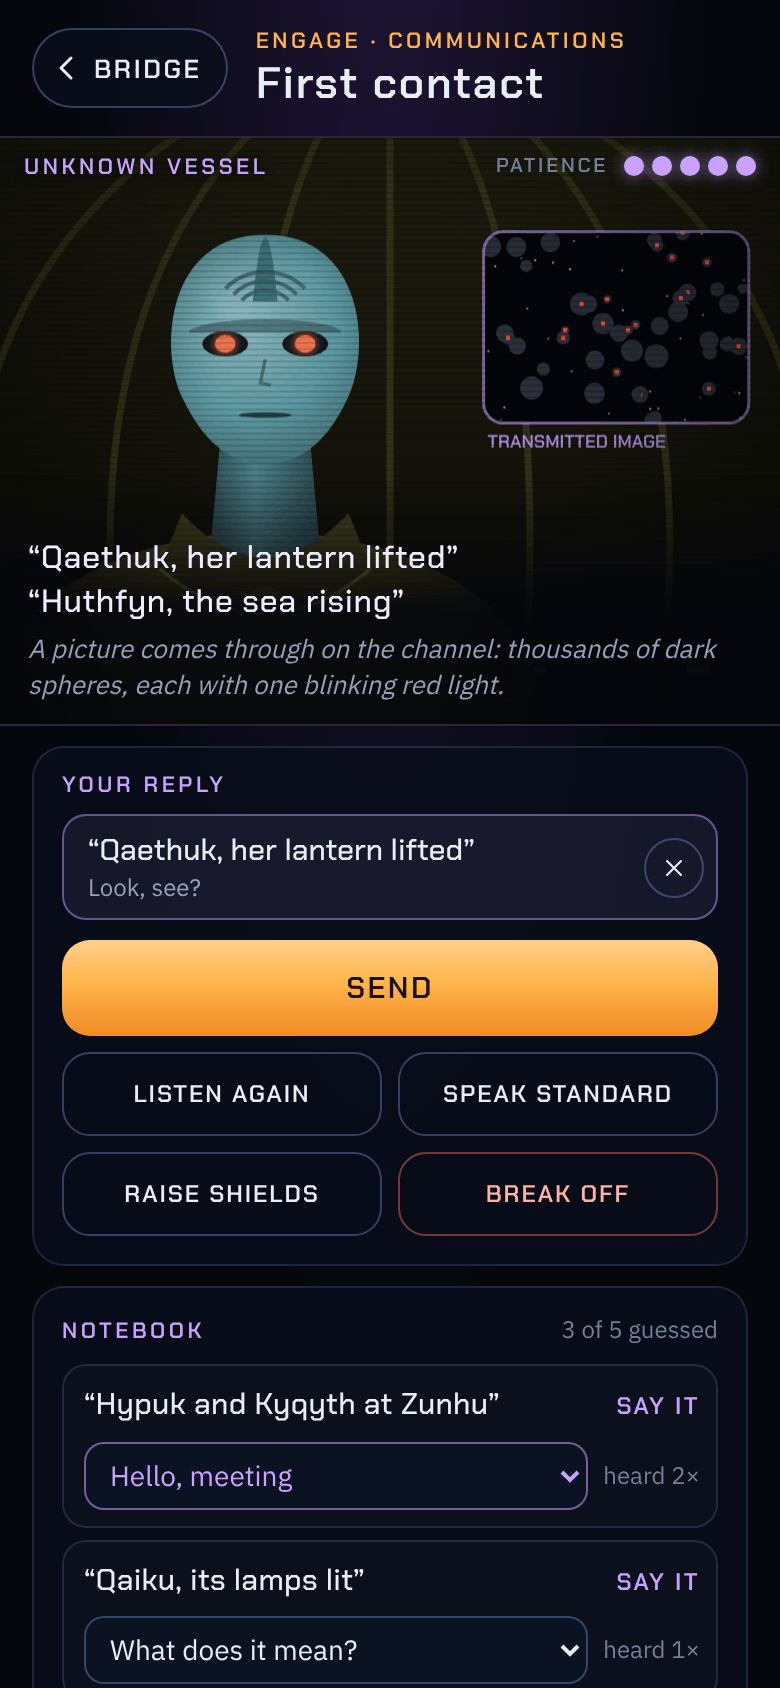
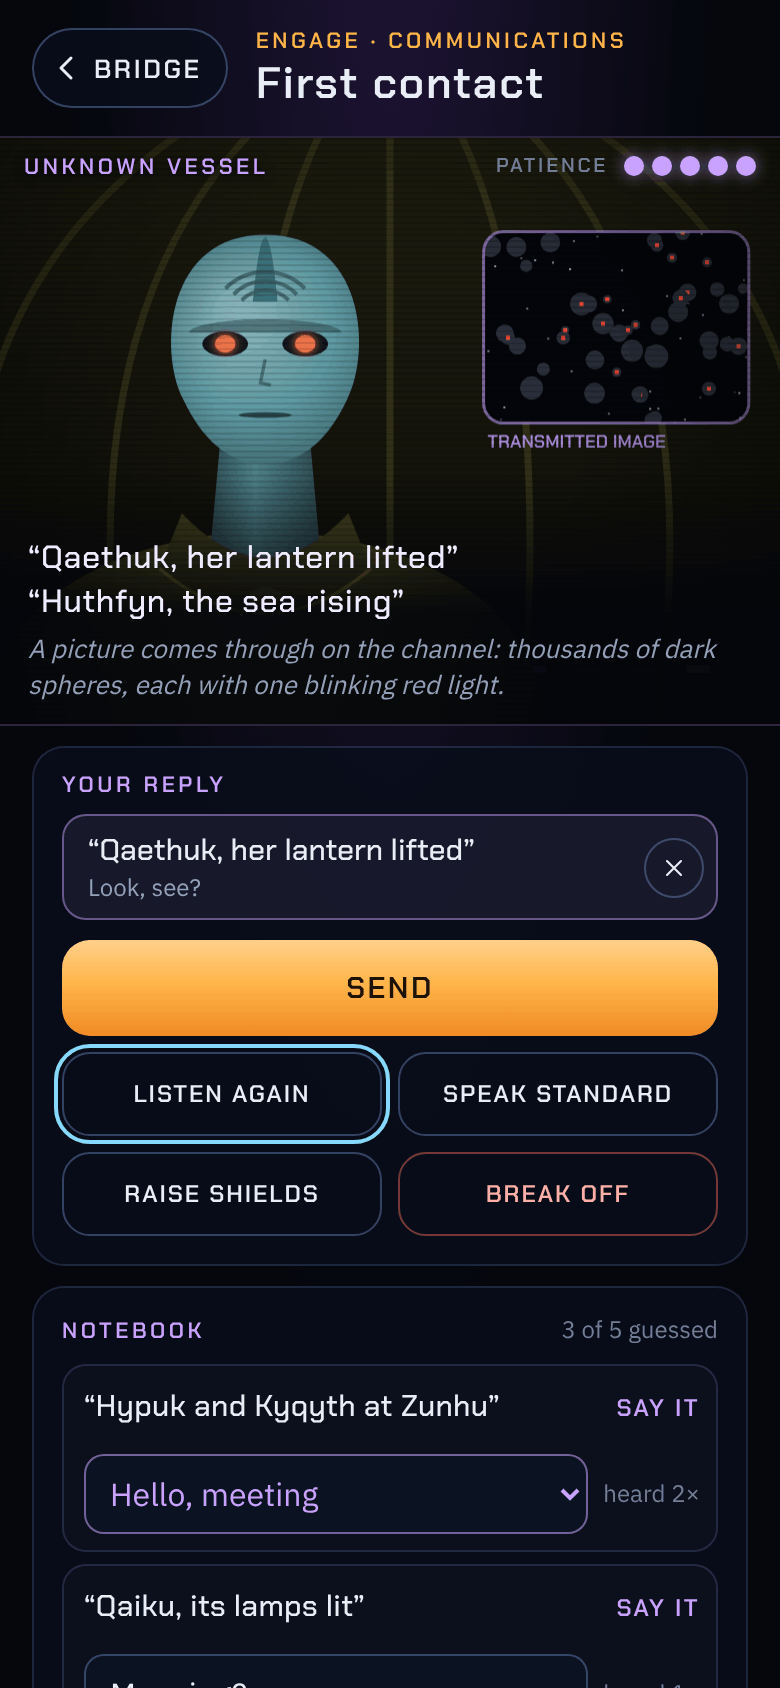
Small things under a thumb: 44 px tap areas, 16 px selects, no stray line
Measured on a 390 px phone: first contact's notebook phrase, the button
a reply is built with, was 24 px tall; the lab's let-go button on a jar
30 px; the text links in the survey, the lab, long missions and the warp
scale 24 px; the bridge's Warp scale link 26 px, right under the warp
slider's thumb. The notebook's selects were in 14 px type, which makes
Safari on an iPhone zoom the page in on focus and leave it zoomed (its
documented behaviour, not seen here). And tonight's row of controls took
the bridge star list's ".row" rule with it: a hairline across the screen
under Point your phone.

Each gets a 44 px tap area and keeps its look. The notebook phrase is 44
px tall in place of the card's own padding (a row is 12 px taller, half
of that the select). The jar's disc stays 30 px and takes taps from 7 px
around it. The text links are padded, with margins that take the padding
back so nothing moves; Warp scale grows down and left, never up into the
slider. Long missions' view buttons and tonight's city chips are 40 px.
The selects are 16 px. Tonight's row keeps its spacing and loses the
line and the hover. Pictures redrawn: tonight's sky, first contact, long
missions.

Claude-Session: https://claude.ai/code/session_01PQbLNVDaib7dGBXFANm7XP

diff --git a/css/xeno.css b/css/xeno.css
@@ -15,11 +15,11 @@
 .bench-actions .secondary[aria-pressed="true"] { border-color: #6fe3a4; color: #6fe3a4; }
 .bench-actions .secondary:disabled { opacity: 1; color: var(--muted); border-style: dashed; font-size: 12px; }
 .bench-foot { display: flex; flex-wrap: wrap; justify-content: space-between; align-items: center; gap: 0 12px; margin-top: 4px; }
-.bench-foot .text-button { color: #6fe3a4; font-size: 13px; }
+.bench-foot .text-button { color: #6fe3a4; font-size: 13px; min-height: 44px; padding: 12px 0; margin: -4px 0; }
 .bench-foot .share-link { flex: 1 1 100%; min-width: 0; height: 40px; padding: 0 12px; border-radius: 12px; border: 1px solid var(--line-strong); background: rgba(255, 255, 255, 0.04); font-size: 14px; color: var(--text); }
 .kept-note { margin: 0; margin-left: auto; text-align: right; font-size: 13px; color: var(--muted); }
 .link-note { margin: 4px 0 0; font-size: 13px; color: var(--muted); }
-.kept-note a { color: #6fe3a4; text-underline-offset: 3px; display: inline-block; padding: 6px 0; }
+.kept-note a { color: #6fe3a4; text-underline-offset: 3px; display: inline-block; line-height: 20px; padding: 12px 0; margin: -6px 0; }
 
 .specimen { padding: 18px 18px 10px; border-radius: 20px; border: 1px solid var(--line); background: var(--panel); }
 .specimen h2 { margin: 4px 0 0; font: 600 26px/1.1 var(--display); letter-spacing: 0.02em; }
@@ -31,7 +31,8 @@
 .notes li { padding: 10px 0; border-top: 1px solid var(--line); }
 .notes h3 { margin: 0 0 3px; font: 600 11px/1.2 var(--display); letter-spacing: 0.16em; text-transform: uppercase; color: var(--amber); }
 .notes p { margin: 0; color: #cdd5e3; }
-.specimen .to-file { display: inline-block; margin: 6px 18px 4px 0; font: 600 12px/1 var(--display); letter-spacing: 0.12em; text-transform: uppercase; color: var(--amber); text-decoration: none; padding: 6px 0; }
+/* 44 px tall under a thumb; the margins take back what the padding adds, so the link sits where it did. */
+.specimen .to-file { display: inline-block; margin: -4px 18px -6px 0; font: 600 12px/1 var(--display); letter-spacing: 0.12em; text-transform: uppercase; color: var(--amber); text-decoration: none; padding: 16px 0; }
 .specimen .to-file:hover { text-decoration: underline; text-underline-offset: 3px; }
 .specimen .for-real { margin: 10px 0 2px; font-size: 14px; color: var(--muted); }
 .specimen .for-real a { color: var(--cyan); text-underline-offset: 3px; }
@@ -66,6 +67,8 @@
 .jar-cls { font-size: 12px; color: var(--muted); padding: 0 4px; }
 .jar-drop { position: absolute; top: 10px; right: 10px; width: 30px; height: 30px; border-radius: 50%; border: 1px solid var(--line-strong); background: rgba(5, 7, 13, 0.75); display: grid; place-items: center; padding: 0; }
 .jar-drop svg { width: 14px; height: 14px; }
+/* The disc stays 30 px; a tap lands on it from 7 px further out all round. */
+.jar-drop::after { content: ''; position: absolute; left: 50%; top: 50%; width: 44px; height: 44px; transform: translate(-50%, -50%); border-radius: 50%; }
 
 .xeno .jd-foot { padding: 28px 0 calc(18px + var(--safe-b)); }
 

diff --git a/css/contact.css b/css/contact.css
@@ -71,16 +71,19 @@ body.contact { min-height: 100%; background: radial-gradient(ellipse at 50% -10%
 
 .book-n { font-size: 12px; color: var(--dim); }
 .book-list { list-style: none; margin: 8px 0 0; padding: 0; display: grid; gap: 6px; }
-.book-list li { display: grid; grid-template-columns: 1fr auto; gap: 6px 8px; align-items: center; padding: 8px 8px 8px 10px; border-radius: 12px; border: 1px solid var(--line); background: rgba(255, 255, 255, 0.02); }
+/* The phrase is the button a reply is built with: its row is 44 px tall for a thumb, and takes the place of the card's
+   own space above and below it, so a row is hardly taller than it was. */
+.book-list li { display: grid; grid-template-columns: 1fr auto; gap: 0 8px; align-items: center; padding: 0 8px 8px 10px; border-radius: 12px; border: 1px solid var(--line); background: rgba(255, 255, 255, 0.02); }
 .book-list li.new { animation: glow 1.6s ease-out; }
-.ph-add { grid-column: 1 / -1; display: flex; align-items: baseline; gap: 8px; width: 100%; padding: 2px 0; border: 0; background: none; text-align: left; }
+.ph-add { grid-column: 1 / -1; display: flex; align-items: baseline; gap: 8px; width: 100%; min-height: 44px; padding: 11px 0; border: 0; background: none; text-align: left; }
 .ph-add .t { flex: 1; font: 500 15px/1.3 var(--display); letter-spacing: 0.01em; }
 .ph-add .plus { flex: none; font: 600 12px/1 var(--display); letter-spacing: 0.1em; text-transform: uppercase; color: var(--alien); }
 .ph-add:not([aria-disabled="true"]):hover .t { color: #fff; }
 .ph-add[aria-disabled="true"] { cursor: default; }
 .ph-add[aria-disabled="true"] .plus { color: var(--dim); }
 .ph-n { font-size: 12px; color: var(--dim); white-space: nowrap; }
-.book-list select { width: 100%; min-width: 0; height: 34px; padding: 0 8px; border-radius: 10px; border: 1px solid var(--line-strong); background: var(--panel-solid); color: var(--text); font: 14px var(--body); }
+/* 16 px: Safari on an iPhone zooms the whole page in on a focused control whose text is smaller, and stays zoomed. */
+.book-list select { width: 100%; min-width: 0; height: 40px; padding: 0 8px; border-radius: 10px; border: 1px solid var(--line-strong); background: var(--panel-solid); color: var(--text); font: 16px var(--body); }
 .book-list select.tagged { border-color: rgba(201, 162, 255, 0.55); color: var(--alien); }
 @keyframes glow { from { border-color: var(--alien); background: rgba(201, 162, 255, 0.14); } }
 

diff --git a/css/missions.css b/css/missions.css
@@ -18,7 +18,7 @@ body.missions { min-height: 100%; background: radial-gradient(ellipse at 50% -10
 .map-wrap { position: relative; margin: 4px -16px 0; border-block: 1px solid var(--line); background: radial-gradient(circle at 50% 50%, #0a1426 0%, #04060b 70%); }
 #map { display: block; width: 100%; aspect-ratio: 1 / 1.08; max-height: 78vh; touch-action: manipulation; cursor: pointer; }
 .views { position: absolute; left: 10px; top: 10px; display: flex; padding: 3px; gap: 3px; border-radius: 12px; border: 1px solid var(--line); background: rgba(5, 7, 13, 0.75); backdrop-filter: blur(8px); -webkit-backdrop-filter: blur(8px); }
-.views button { height: 32px; padding: 0 10px; border: 0; border-radius: 9px; background: transparent; color: var(--muted); font: 600 11px/1 var(--display); letter-spacing: 0.1em; text-transform: uppercase; }
+.views button { height: 40px; padding: 0 10px; border: 0; border-radius: 9px; background: transparent; color: var(--muted); font: 600 11px/1 var(--display); letter-spacing: 0.1em; text-transform: uppercase; }
 .views button[aria-pressed="true"] { background: rgba(134, 216, 255, 0.14); color: var(--cyan); box-shadow: 0 0 0 1px rgba(134, 216, 255, 0.35) inset; }
 .scale { margin: 6px 0 0; font-size: 12px; color: var(--dim); }
 
@@ -61,7 +61,8 @@ body.missions { min-height: 100%; background: radial-gradient(ellipse at 50% -10
 .log li { display: grid; grid-template-columns: 7.4em 1fr; gap: 10px; padding: 8px 0; border-top: 1px solid var(--line); font-size: 14px; color: #cdd5e3; }
 .log time { font: 500 12px/1.6 var(--display); letter-spacing: 0.04em; color: var(--muted); }
 .file .warp { color: var(--cyan); font-size: 14px; }
-.fly { display: inline-block; margin: 2px 0 6px; font: 600 12px/1 var(--display); letter-spacing: 0.12em; text-transform: uppercase; color: var(--amber); text-decoration: none; padding: 6px 0; }
+/* 44 px tall under a thumb; the margins take back what the padding adds, so the link sits where it did. */
+.fly { display: inline-block; margin: -8px 0 -4px; font: 600 12px/1 var(--display); letter-spacing: 0.12em; text-transform: uppercase; color: var(--amber); text-decoration: none; padding: 16px 0; }
 .fly:hover { text-decoration: underline; text-underline-offset: 3px; }
 .file .record { color: var(--muted); font-size: 14px; font-style: italic; }
 

diff --git a/css/tonight.css b/css/tonight.css
@@ -30,7 +30,8 @@
 .controls { position: absolute; left: 0; right: 0; bottom: 0; padding: 30px 16px calc(14px + var(--safe-b)); background: linear-gradient(to top, rgba(5, 7, 13, 0.85) 40%, rgba(5, 7, 13, 0)); pointer-events: none; }
 .controls > * { pointer-events: auto; }
 .hint { margin: 0 auto 10px; max-width: 520px; text-align: center; font-size: 13px; color: var(--muted); text-shadow: 0 1px 6px rgba(0, 0, 0, 0.9); }
-.controls .row { display: flex; gap: 12px; align-items: center; max-width: 520px; margin: 0 auto; }
+/* (.row is also a line of the bridge's star list in css/app.css: its rule under each line, and its hover, are not for this row.) */
+.controls .row { display: flex; gap: 12px; align-items: center; max-width: 520px; margin: 0 auto; padding: 10px 4px 11px; border: 0; background: none; }
 .controls .primary, .controls .secondary { flex: none; height: 46px; }
 .time { flex: 1; min-width: 0; display: grid; gap: 4px; }
 .time-label { font: 600 12px/1 var(--display); letter-spacing: 0.12em; text-transform: uppercase; color: var(--amber); }
@@ -90,7 +91,7 @@ body.carded .controls { visibility: hidden; }
 .sky-opt span { font-size: 13px; color: var(--muted); }
 .sky-opt[aria-checked="true"] { border-color: var(--amber); background: rgba(255, 181, 74, 0.08); }
 .cities { display: flex; flex-wrap: wrap; gap: 6px; }
-.city { height: 36px; padding: 0 12px; border-radius: 999px; border: 1px solid var(--line); background: rgba(255, 255, 255, 0.03); font-size: 14px; }
+.city { height: 40px; padding: 0 12px; border-radius: 999px; border: 1px solid var(--line); background: rgba(255, 255, 255, 0.03); font-size: 14px; }
 .city[aria-pressed="true"] { border-color: var(--amber); color: var(--amber); }
 
 /* Night vision: everything in red, so your eyes stay used to the dark */

diff --git a/css/survey.css b/css/survey.css
@@ -51,12 +51,13 @@ body.survey { min-height: 100%; background: radial-gradient(ellipse at 50% -10%,
 .ly { font: 500 13px/1 var(--display); color: var(--cyan); white-space: nowrap; font-variant-numeric: tabular-nums; }
 .worlds p { margin: 4px 0 2px; font-size: 14px; color: var(--muted); }
 .misfit { display: inline-block; margin: 6px 0 2px; padding: 4px 8px; border: 1px solid rgba(255, 181, 74, 0.45); border-radius: 999px; font: 600 10px/1.2 var(--display); letter-spacing: 0.12em; text-transform: uppercase; color: var(--amber); }
-.fly { display: inline-block; margin-top: 4px; font: 600 12px/1 var(--display); letter-spacing: 0.12em; text-transform: uppercase; color: var(--amber); text-decoration: none; padding: 6px 0; }
+/* 44 px tall under a thumb; the margins take back what the padding adds, so the link sits where it did. */
+.fly { display: inline-block; margin: -6px 0 -10px; font: 600 12px/1 var(--display); letter-spacing: 0.12em; text-transform: uppercase; color: var(--amber); text-decoration: none; padding: 16px 0; }
 .fly:hover { text-decoration: underline; text-underline-offset: 3px; }
 /* Set course, and Grow a creature for it: side by side where there's room, one under the other on a phone. */
 .w-links { display: flex; flex-wrap: wrap; gap: 0 20px; }
 /* A long planet's name takes its link to a second line: give the two lines room. */
-.w-links .fly { line-height: 1.4; }
+.w-links .fly { line-height: 1.4; padding: 14px 0; margin: -4px 0 -8px; }
 
 /* Thumbnails to flip through */
 .strip-wrap { margin: 14px -16px 0; }

diff --git a/css/app.css b/css/app.css
@@ -94,7 +94,8 @@ a.round { color: var(--text); text-decoration: none; }
 .warp-label { font: 600 14px/1 var(--display); letter-spacing: 0.08em; text-transform: uppercase; color: var(--amber); white-space: nowrap; }
 .warp-label output { display: inline-block; min-width: 2.2em; font-variant-numeric: tabular-nums; }
 .warp-speed { grid-column: 1 / -1; display: flex; flex-wrap: wrap; justify-content: space-between; gap: 0 8px; margin: 2px 0 0; font-size: 12px; color: var(--dim); font-variant-numeric: tabular-nums; }
-#open-scale { color: #c9a2ff; text-decoration: none; white-space: nowrap; padding: 4px 0; margin: -4px 0; }
+/* 44 px tall under a thumb. The room is added below the words and to their left, never above: that is the slider's. */
+#open-scale { color: #c9a2ff; text-decoration: none; white-space: nowrap; padding: 4px 0 22px 14px; margin: -4px 0 -22px -14px; }
 #open-scale:hover { text-decoration: underline; text-underline-offset: 3px; }
 input[type=range] { -webkit-appearance: none; appearance: none; width: 100%; height: 32px; background: transparent; margin: 0; }
 input[type=range]::-webkit-slider-runnable-track { height: 6px; border-radius: 3px; background: linear-gradient(90deg, var(--amber-deep), var(--amber) var(--fill, 85%), rgba(255, 255, 255, 0.12) var(--fill, 85%)); }

diff --git a/sw.js b/sw.js
@@ -8,7 +8,7 @@
 // fingerprint of every file in SHELL: change any of them and test/e2e.mjs fails until FILES is changed to match (it
 // says what to), which changes this file, so every copy is made whole again at once.
 const CACHE = 'engage-v14'; // bump the number when the file list changes
-const FILES = 'b442d126'; // test/e2e.mjs checks this
+const FILES = 'f97d8e14'; // test/e2e.mjs checks this
 const SHELL = [
   './', 'index.html', 'survey.html', 'maru.html', 'missions.html', 'tonight.html', 'xeno.html', 'contact.html', 'warp.html', 'icon.svg', 'manifest.webmanifest',
   'css/app.css', 'css/survey.css', 'css/maru.css', 'css/missions.css', 'css/tonight.css', 'css/xeno.css', 'css/contact.css', 'css/warp.css', 'js/app.js', 'js/maru.js', 'js/maru-sim.js', 'js/missions.js', 'js/tonight.js', 'js/xeno.js', 'js/xeno-gen.js', 'js/xeno-art.js', 'js/species.js', 'js/contact.js', 'js/contact-sim.js', 'js/contact-art.js', 'js/warp.js', 'js/warp-scale.js', 'js/wake.js', 'js/astro.js', 'js/charts.js', 'js/ships.js', 'js/ephemeris.js', 'js/classes.js', 'js/planet-art.js', 'js/survey.js', 'js/audio.js', 'js/catalog.js', 'js/destinations.js', 'js/log.js', 'js/search.js', 'js/share.js', 'js/store.js', 'js/physics.js', 'js/sky.js',

diff --git a/css/warp.css b/css/warp.css
@@ -25,7 +25,8 @@
 .place .about { margin: 12px 0 8px; color: #cdd5e3; }
 .place .trek { margin: 0 0 10px; padding: 8px 10px; border-left: 3px solid var(--amber); background: rgba(255, 181, 74, 0.06); color: #cdd5e3; font-size: 14px; border-radius: 0 10px 10px 0; }
 .place .trek b { margin-right: 4px; font: 600 11px/1 var(--display); letter-spacing: 0.14em; text-transform: uppercase; color: var(--amber); }
-.place .to-file { display: inline-block; margin: 8px 0 4px; font: 600 12px/1 var(--display); letter-spacing: 0.12em; text-transform: uppercase; color: var(--amber); text-decoration: none; padding: 6px 0; }
+/* 44 px tall under a thumb; the margins take back what the padding adds, so the link sits where it did. */
+.place .to-file { display: inline-block; margin: -2px 0 -6px; font: 600 12px/1 var(--display); letter-spacing: 0.12em; text-transform: uppercase; color: var(--amber); text-decoration: none; padding: 16px 0; }
 .place .to-file:hover { text-decoration: underline; text-underline-offset: 3px; }
 
 /* Where the place sits on the ladder: how long its light takes, a light-second to a million years */
